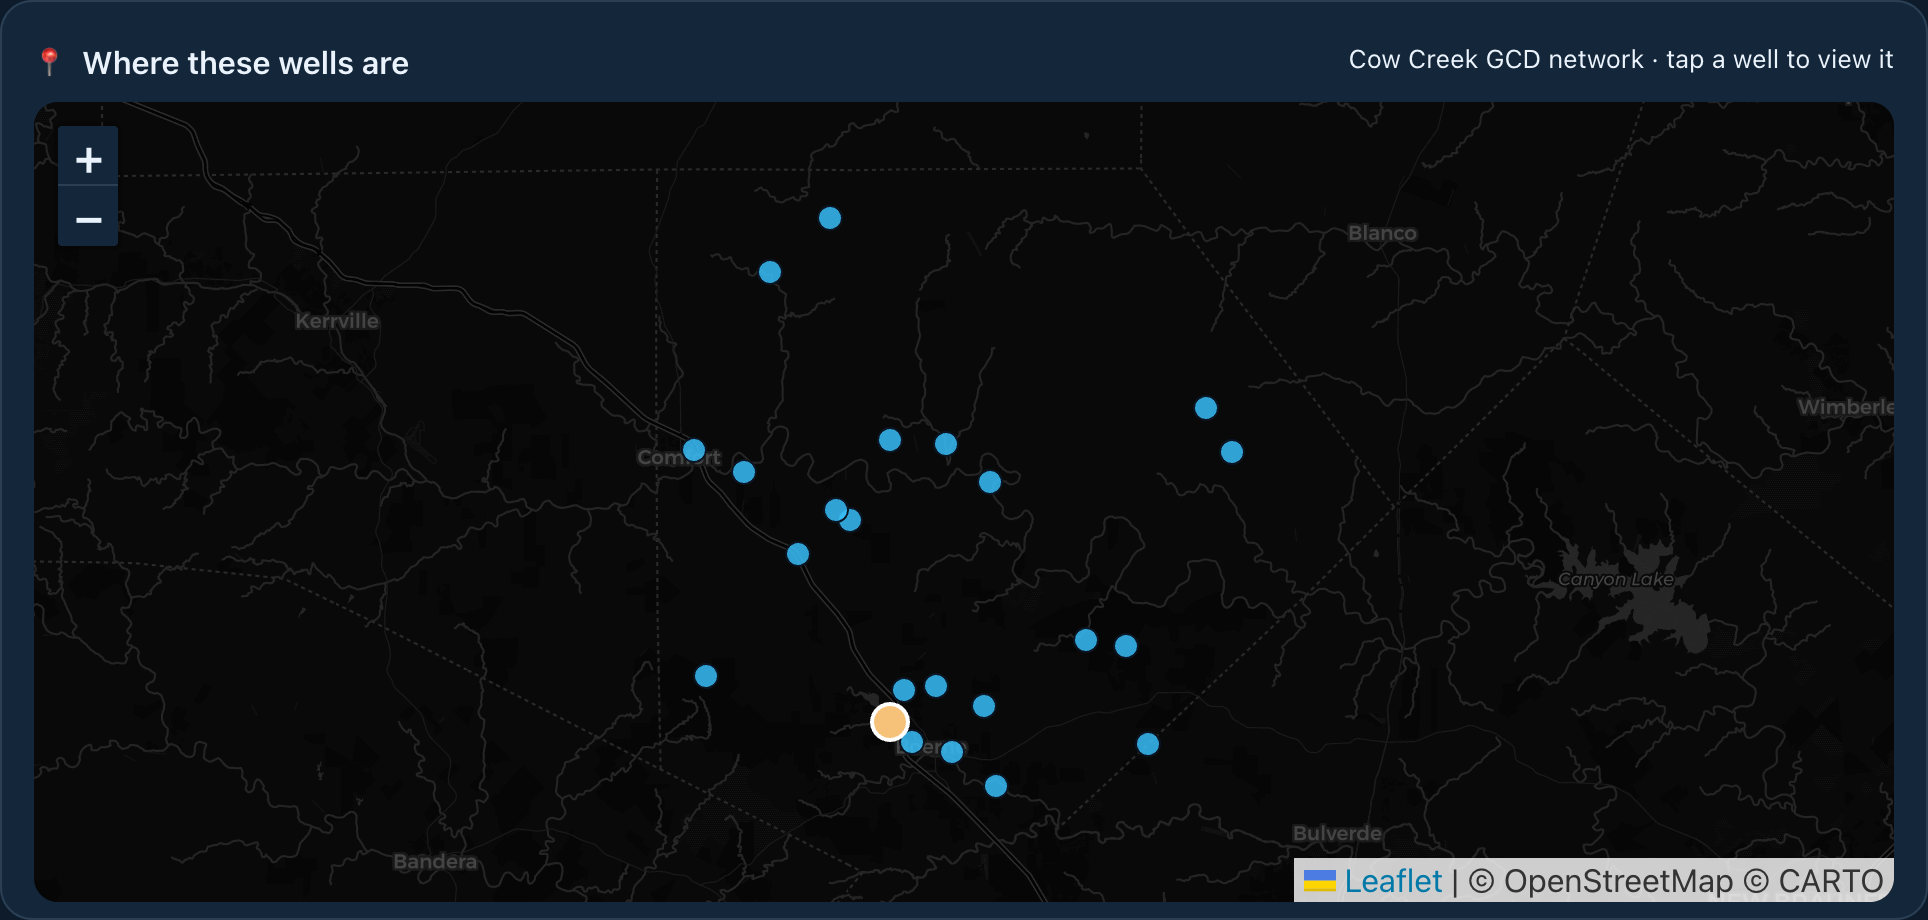
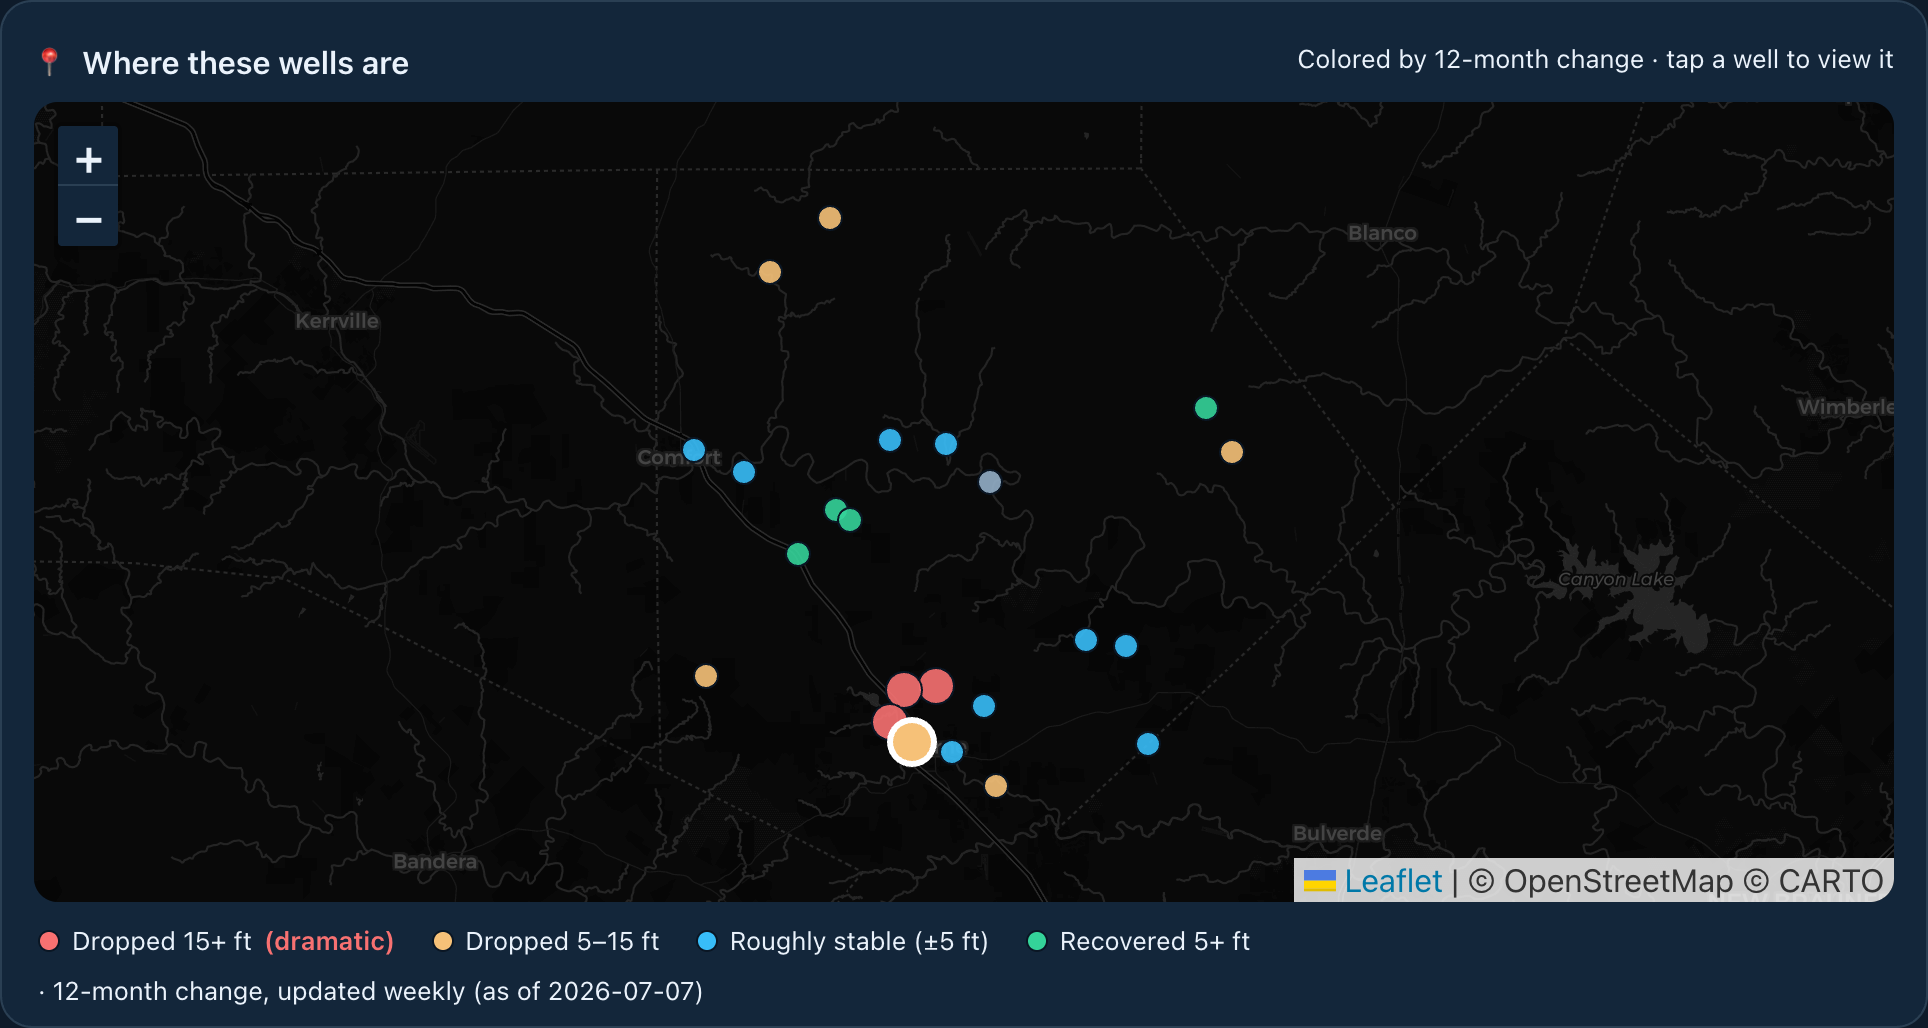
Highlight wells by 12-month change on map (dramatic droppers in red); weekly auto-refresh via launchd + scripts

diff --git a/public/index.html b/public/index.html
@@ -143,6 +143,10 @@
   footer{color:var(--muted);font-size:.78rem;line-height:1.6;margin-top:26px;border-top:1px solid var(--border);padding-top:16px}
   #xsec svg{width:100%;height:auto;display:block;border-radius:10px}
   #map{height:400px;border-radius:12px;overflow:hidden;z-index:0}
+  .maplegend{display:flex;flex-wrap:wrap;gap:10px 18px;margin:12px 2px 2px;font-size:.8rem;color:var(--ink);align-items:center}
+  .maplegend span{display:inline-flex;align-items:center;gap:6px}
+  .maplegend i{width:11px;height:11px;border-radius:50%;display:inline-block;border:1px solid #0a1624}
+  .maplegend b{color:var(--drop);font-weight:600}
   .leaflet-container{background:#0a1624;font:inherit}
   .leaflet-tooltip{background:#13263a;color:#eaf2fb;border:1px solid var(--border);
     box-shadow:0 2px 8px rgba(0,0,0,.4);font-weight:600}
@@ -210,9 +214,16 @@
 
   <section class="panel" id="mapPanel">
     <div class="toolbar"><h2>📍 Where these wells are</h2>
-      <span class="muted" style="font-size:.8rem">Cow Creek GCD network · tap a well to view it</span>
+      <span class="muted" style="font-size:.8rem">Colored by 12-month change · tap a well to view it</span>
     </div>
     <div id="map"></div>
+    <div class="maplegend">
+      <span><i style="background:#f87171"></i>Dropped 15+ ft <b>(dramatic)</b></span>
+      <span><i style="background:#f6c178"></i>Dropped 5–15 ft</span>
+      <span><i style="background:#38bdf8"></i>Roughly stable (±5 ft)</span>
+      <span><i style="background:#34d399"></i>Recovered 5+ ft</span>
+      <span class="muted" id="legendNote"></span>
+    </div>
   </section>
 
   <div id="cards" class="cards" hidden></div>
@@ -322,6 +333,19 @@ const WELLS = [
 ];
 const WELL_BY_ID = Object.fromEntries(WELLS.map(w => [w.id, w]));
 
+// 12-month change in depth-to-water, ft (+ = water dropped deeper, - = recovered).
+// Refreshed weekly by scripts/refresh-droppers.mjs. CHG12_ASOF is the snapshot date.
+const CHG12 = {"5758203":7.5,"6811708":0.5,"6806105":-2.1,"6801314":-0.9,"6811302":2.7,"5758402":5.6,"6804214":-9.7,"6812414":-1.8,"6802302":1.4,"6803503":null,"6811417":9.3,"6804312":8.9,"6810616":59.1,"6810626":25.6,"6811817":6.8,"6812106":0.5,"6802807":-6.3,"6811509":1.7,"6803109":-0.3,"6809303":9.9,"6811418":19.4,"6802609":-9.1,"6802509":-11.8};
+const CHG12_ASOF = "2026-07-07";
+// Map a 12-month change to a color + tier label.
+function trendTier(chg){
+  if(chg == null)   return { c:"#93aec7", label:"Not enough data" };
+  if(chg >= 15)     return { c:"#f87171", label:"Dropped 15+ ft (dramatic)", big:true };
+  if(chg >= 5)      return { c:"#f6c178", label:"Dropped 5–15 ft" };
+  if(chg <= -5)     return { c:"#34d399", label:"Recovered 5+ ft" };
+  return { c:"#38bdf8", label:"Roughly stable (±5 ft)" };
+}
+
 // ---- Sponsors -----------------------------------------------------------
 // Add paying advertisers here — one object each. Leave empty to show just the
 // "Advertise here" slot. Example:
@@ -356,10 +380,17 @@ function activeRange(){
 
 // ---- Map of all wells -------------------------------------------------
 let map, markers = {};
-function markerStyle(sel){
+// Markers are colored by their 12-month change; dramatic droppers are red + larger.
+function markerStyle(sel, wellId){
+  const t = trendTier(CHG12[wellId]);
   return sel
-    ? { radius:9, color:"#ffffff", weight:2, fillColor:"#f6c178", fillOpacity:1 }
-    : { radius:6, color:"#0a1624", weight:1, fillColor:"#38bdf8", fillOpacity:.85 };
+    ? { radius:11, color:"#ffffff", weight:3, fillColor:t.c, fillOpacity:1 }
+    : { radius: t.big ? 9 : 6, color:"#0a1624", weight:1, fillColor:t.c, fillOpacity:.9 };
+}
+function chgTip(id){
+  const c = CHG12[id];
+  if(c == null) return "";
+  return c > 0 ? ` · ▼ ${c.toFixed(0)} ft deeper (12 mo)` : ` · ▲ ${Math.abs(c).toFixed(0)} ft recovered (12 mo)`;
 }
 function initMap(){
   if(!window.L) return;                       // Leaflet failed to load — dropdown still works
@@ -369,19 +400,23 @@ function initMap(){
     attribution:'&copy; OpenStreetMap &copy; CARTO'
   }).addTo(map);
   const pts = [];
-  WELLS.forEach(w=>{
+  // draw dramatic droppers last so they sit on top
+  const ordered = [...WELLS].sort((a,b)=> (CHG12[a.id]||0) - (CHG12[b.id]||0));
+  ordered.forEach(w=>{
     if(w.lat==null || w.lng==null) return;
-    const m = L.circleMarker([w.lat, w.lng], markerStyle(false))
+    const m = L.circleMarker([w.lat, w.lng], markerStyle(false, w.id))
       .addTo(map)
-      .bindTooltip(w.name, { direction:"top", offset:[0,-4] })
+      .bindTooltip(w.name + chgTip(w.id), { direction:"top", offset:[0,-4] })
       .on("click", ()=>{ document.getElementById("wellSel").value = w.id; load(w.id); });
     markers[w.id] = m;
     pts.push([w.lat, w.lng]);
   });
   if(pts.length) map.fitBounds(pts, { padding:[28,28] });
+  const ln = document.getElementById("legendNote");
+  if(ln) ln.textContent = "· 12-month change, updated weekly (as of " + CHG12_ASOF + ")";
 }
 function selectMarker(id){
-  for(const wid in markers) markers[wid].setStyle(markerStyle(wid === id));
+  for(const wid in markers) markers[wid].setStyle(markerStyle(wid === id, wid));
   if(markers[id]) markers[id].bringToFront();
 }
 

diff --git a/scripts/README.md b/scripts/README.md
@@ -1,0 +1,44 @@
+# Weekly "dramatic droppers" refresh
+
+The map colors each of the 23 wells by its **12-month change in depth-to-water**:
+
+| Color | Meaning |
+|---|---|
+| 🔴 Red (larger dot) | Dropped 15+ ft in 12 months (dramatic) |
+| 🟠 Amber | Dropped 5–15 ft |
+| 🔵 Blue | Roughly stable (±5 ft) |
+| 🟢 Green | Recovered 5+ ft |
+| ⚪ Gray | Not enough record yet |
+
+Those values live in `public/index.html` as `const CHG12 = {...}` with a snapshot date
+`const CHG12_ASOF`. They're also cached in `wells-catalog.json` (`change12moFt` per well +
+`chg12UpdatedAt`), so nothing needs to re-download the big TWDB feeds for routine use.
+
+## How it updates (weekly, automatic)
+
+`scripts/refresh-droppers.mjs` refetches each well's feed, recomputes the 12-month change,
+and rewrites both `CHG12`/`CHG12_ASOF` in `index.html` and the catalog. On a single-well
+fetch failure it keeps that well's previous value, so a hiccup never blanks the map.
+
+`scripts/weekly-update.sh` runs that script, then `npx wrangler deploy`, then a **local**
+git commit (it does not `git push` — that stays manual).
+
+A launchd agent runs it **every Monday at 7:00 AM**:
+`~/Library/LaunchAgents/com.texaswaterwatchers.weekly.plist`
+
+## Manual run
+```sh
+cd ~/kendall-county-water-table
+node scripts/refresh-droppers.mjs   # recompute values only
+# or the full weekly job (recompute + deploy + local commit):
+bash scripts/weekly-update.sh
+```
+
+## Manage the schedule
+```sh
+launchctl load  -w ~/Library/LaunchAgents/com.texaswaterwatchers.weekly.plist   # enable
+launchctl unload -w ~/Library/LaunchAgents/com.texaswaterwatchers.weekly.plist  # disable
+launchctl list | grep texaswaterwatchers                                        # check it's loaded
+```
+Logs: `scripts/weekly-update.log` (and `launchd.out.log` / `launchd.err.log`).
+Note: the Mac must be awake around the scheduled time; if it was asleep, launchd runs the job at the next opportunity.